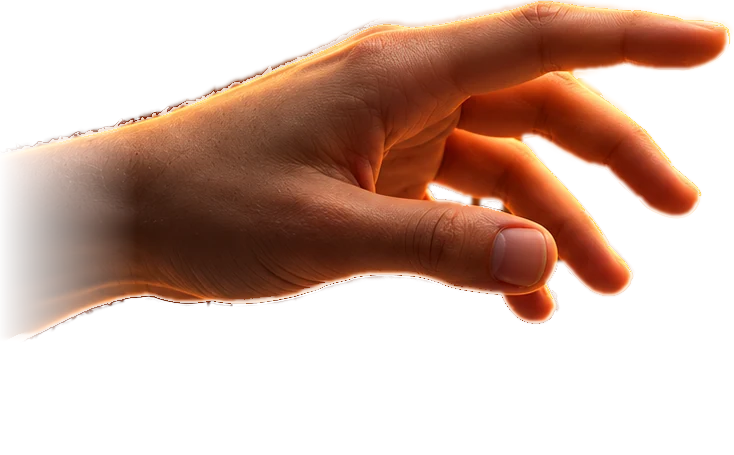
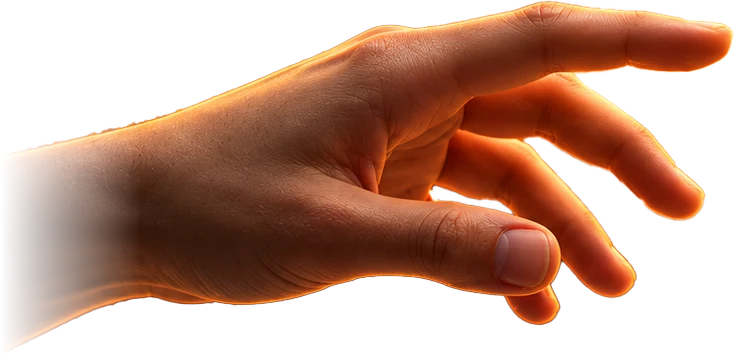
What we do: use the supplied transparent hand PNGs
Claude-Session: https://claude.ai/code/session_015sKVjkfE5PUpmXATrUziLx

diff --git a/index.html b/index.html
@@ -153,12 +153,12 @@ h2.title{font-family:var(--display);font-size:clamp(32px,4.4vw,56px);font-weight
 .services .head{position:relative;z-index:2}
 .services.light{--paper:#141414}
 .touch{position:relative;margin:clamp(-8px,-1vw,0px) calc(50% - 50vw) clamp(8px,2vw,28px);perspective:1100px;perspective-origin:50% 40%;pointer-events:none;--p:0}
-.touch .tstage{position:relative;z-index:1;width:100%;aspect-ratio:1672/455;transform-style:preserve-3d;transform:rotateX(var(--tx,0deg)) rotateY(var(--ty,0deg));transition:transform .4s ease-out}
+.touch .tstage{position:relative;z-index:1;width:100%;aspect-ratio:1672/460;transform-style:preserve-3d;transform:rotateX(var(--tx,0deg)) rotateY(var(--ty,0deg));transition:transform .4s ease-out}
 .touch .hand{position:absolute;display:block;height:auto;max-width:none;will-change:transform,opacity;backface-visibility:hidden}
-.touch .human{left:.18%;top:0;width:43.9%;transform-origin:0% 50%;transform:translate3d(calc((1 - var(--p)) * -46vw),calc((1 - var(--p)) * 60px),calc((1 - var(--p)) * -420px)) rotateY(calc((1 - var(--p)) * 38deg)) rotateZ(calc((1 - var(--p)) * -7deg));opacity:calc(.15 + var(--p) * .85)}
-.touch .robot{left:45.87%;top:0;width:53.95%;transform-origin:100% 50%;transform:translate3d(calc((1 - var(--p)) * 46vw),calc((1 - var(--p)) * 60px),calc((1 - var(--p)) * -420px)) rotateY(calc((1 - var(--p)) * -38deg)) rotateZ(calc((1 - var(--p)) * 7deg));opacity:calc(.15 + var(--p) * .85)}
+.touch .human{left:0;top:.22%;width:43.96%;transform-origin:0% 50%;transform:translate3d(calc((1 - var(--p)) * -46vw),calc((1 - var(--p)) * 60px),calc((1 - var(--p)) * -420px)) rotateY(calc((1 - var(--p)) * 38deg)) rotateZ(calc((1 - var(--p)) * -7deg));opacity:calc(.15 + var(--p) * .85)}
+.touch .robot{left:46.17%;top:1.74%;width:53.83%;transform-origin:100% 50%;transform:translate3d(calc((1 - var(--p)) * 46vw),calc((1 - var(--p)) * 60px),calc((1 - var(--p)) * -420px)) rotateY(calc((1 - var(--p)) * -38deg)) rotateZ(calc((1 - var(--p)) * 7deg));opacity:calc(.15 + var(--p) * .85)}
 .touch .spark{position:absolute;z-index:-1;left:45.1%;top:6%;width:24%;aspect-ratio:1;transform:translate(-50%,-50%) scale(calc(.5 + var(--p) * .5));border-radius:50%;background:radial-gradient(circle,rgba(255,176,70,.55) 0%,rgba(242,68,5,.32) 26%,rgba(242,68,5,.1) 48%,rgba(242,68,5,0) 70%);opacity:calc(var(--p) * var(--p));filter:blur(8px)}
-.touch .core{position:absolute;left:45.1%;top:10.5%;width:3.2%;aspect-ratio:1;transform:translate(-50%,-50%) translateZ(40px);border-radius:50%;background:radial-gradient(circle,#FFF4DC 0%,rgba(255,190,90,.9) 30%,rgba(242,68,5,0) 70%);opacity:0}
+.touch .core{position:absolute;left:45.1%;top:11.5%;width:3.2%;aspect-ratio:1;transform:translate(-50%,-50%) translateZ(40px);border-radius:50%;background:radial-gradient(circle,#FFF4DC 0%,rgba(255,190,90,.9) 30%,rgba(242,68,5,0) 70%);opacity:0}
 .touch.lit .core{animation:touchPulse 2.4s ease-in-out infinite}
 @keyframes touchPulse{0%,100%{opacity:.55;transform:translate(-50%,-50%) translateZ(40px) scale(.8)}50%{opacity:1;transform:translate(-50%,-50%) translateZ(40px) scale(1.25)}}
 @media (prefers-reduced-motion:reduce){.touch{--p:1}.touch .tstage{transition:none}.touch.lit .core{animation:none;opacity:.8}}
@@ -396,7 +396,7 @@ dialog .close{position:absolute;top:14px;right:14px;width:40px;height:40px;borde
 
 <section id="services" class="band services light"><div class="wrap">
   <div class="head reveal"><div><p class="eyebrow">What we do</p><h2 class="title">Three disciplines, one creative team.</h2></div></div>
-  <div class="touch" id="touch" aria-hidden="true"><div class="tstage" id="touchStage"><span class="spark"></span><img class="hand human" src="img/hand_human.webp" alt="" width="734" height="455" loading="lazy" decoding="async"><img class="hand robot" src="img/hand_robot.webp" alt="" width="902" height="455" loading="lazy" decoding="async"><span class="core"></span></div></div>
+  <div class="touch" id="touch" aria-hidden="true"><div class="tstage" id="touchStage"><span class="spark"></span><img class="hand human" src="img/hand_human.webp" alt="" width="735" height="355" loading="lazy" decoding="async"><img class="hand robot" src="img/hand_robot.webp" alt="" width="900" height="451" loading="lazy" decoding="async"><span class="core"></span></div></div>
   <div class="cards reveal"><div class="card"><p class="num">01</p><h3>Branding &amp; Identity</h3><ul><li>Logo design</li><li>Brand identity &amp; guidelines</li><li>Packaging design</li><li>Brochures &amp; business cards</li><li>Posters &amp; flyers</li></ul><a class="more" href="#branding">See brand identities <span aria-hidden="true">→</span></a></div><div class="card"><p class="num">02</p><h3>Content &amp; Production</h3><ul><li>Photography</li><li>Videography</li><li>Reels &amp; video editing</li><li>AI-powered ads &amp; reels</li><li>Art direction on set</li></ul><a class="more" href="#ai">See AI-powered ads <span aria-hidden="true">→</span></a></div><div class="card"><p class="num">03</p><h3>Digital &amp; Social</h3><ul><li>Social media management</li><li>Content creation &amp; posting schedule</li><li>Instagram post &amp; reel design</li><li>Web design &amp; UX/UI</li><li>Presentation design</li></ul><a class="more" href="#social">See social media feeds <span aria-hidden="true">→</span></a></div><div class="lights" id="svcLights" aria-hidden="true"><i></i><i></i><i></i></div></div>
 </div></section>
 
